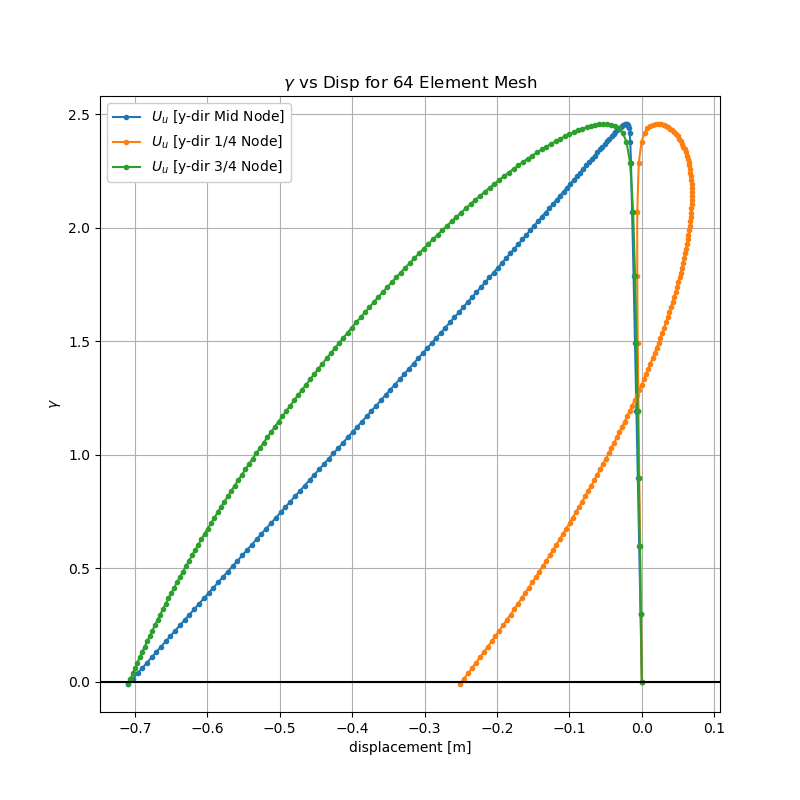
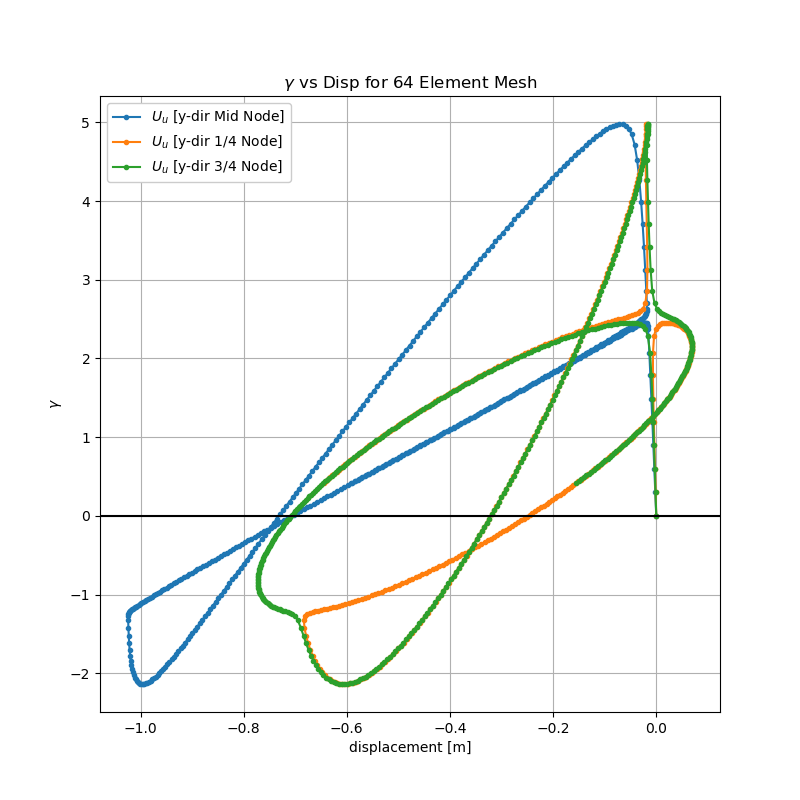
Final Submission. Modified to include looping behavior in Problem 5-3 since it is so interesting looking.

diff --git a/Code/Assignments/Assignment 5/Problem5-3/main5-3.py b/Code/Assignments/Assignment 5/Problem5-3/main5-3.py
@@ -164,8 +164,9 @@ for i in range(500):
             flag = 1
 
         # Exit once the required w is negative (snap-though has occurred)
-        if gamma_n < 0:
-            flag = 1
+        # if gamma_n < 0:
+        #     flag = 1
+
 
     if flag == 1:
         break
